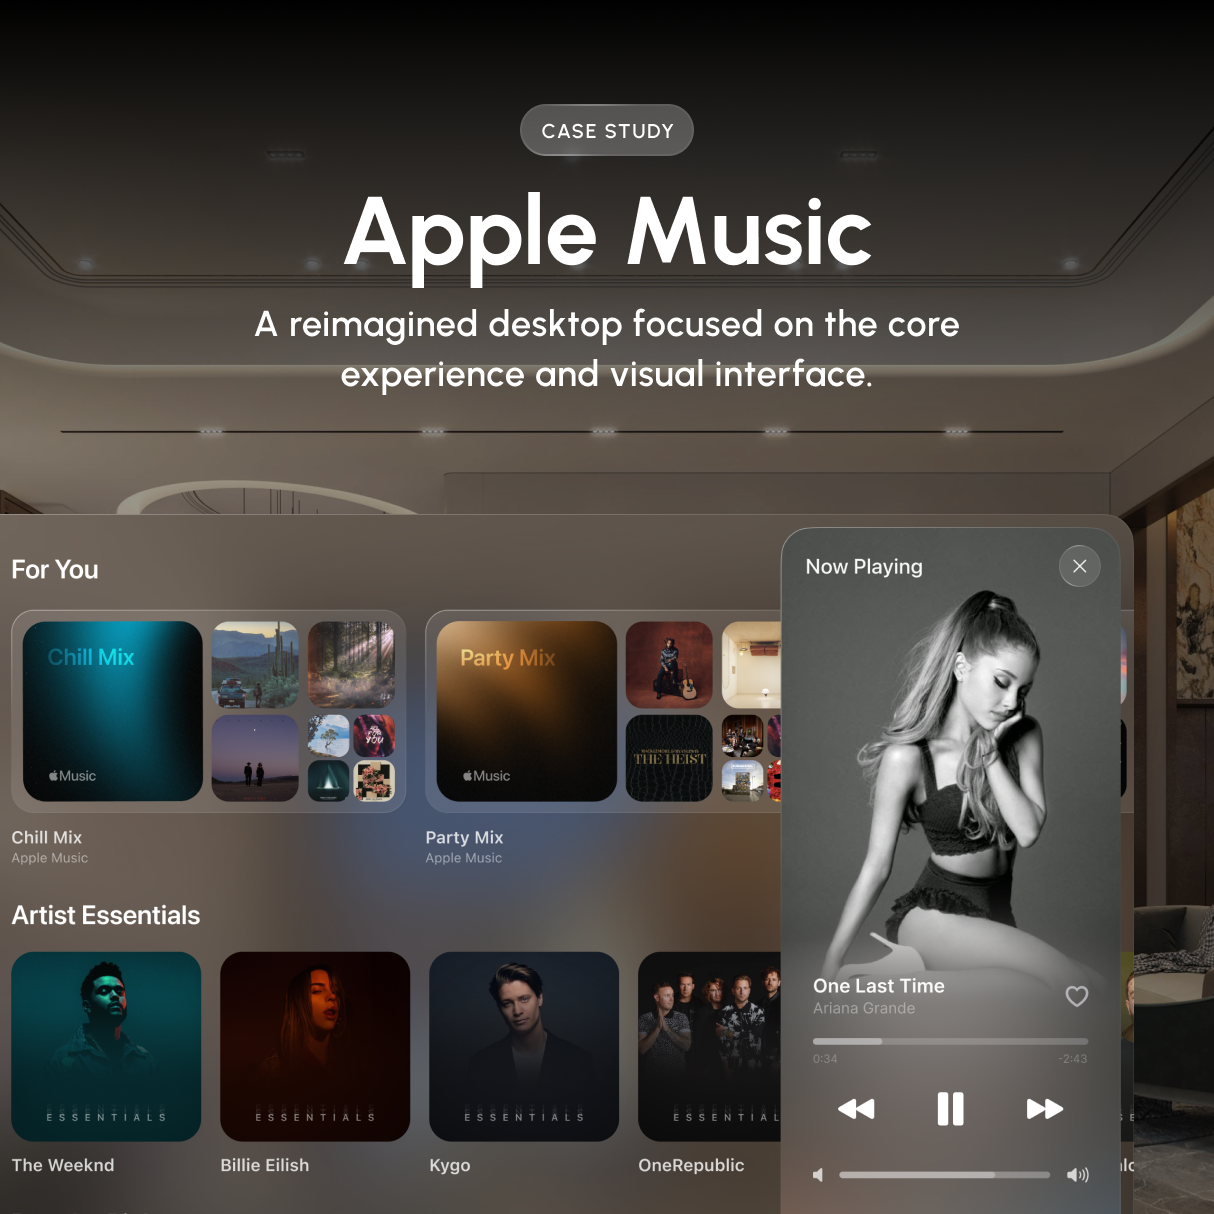
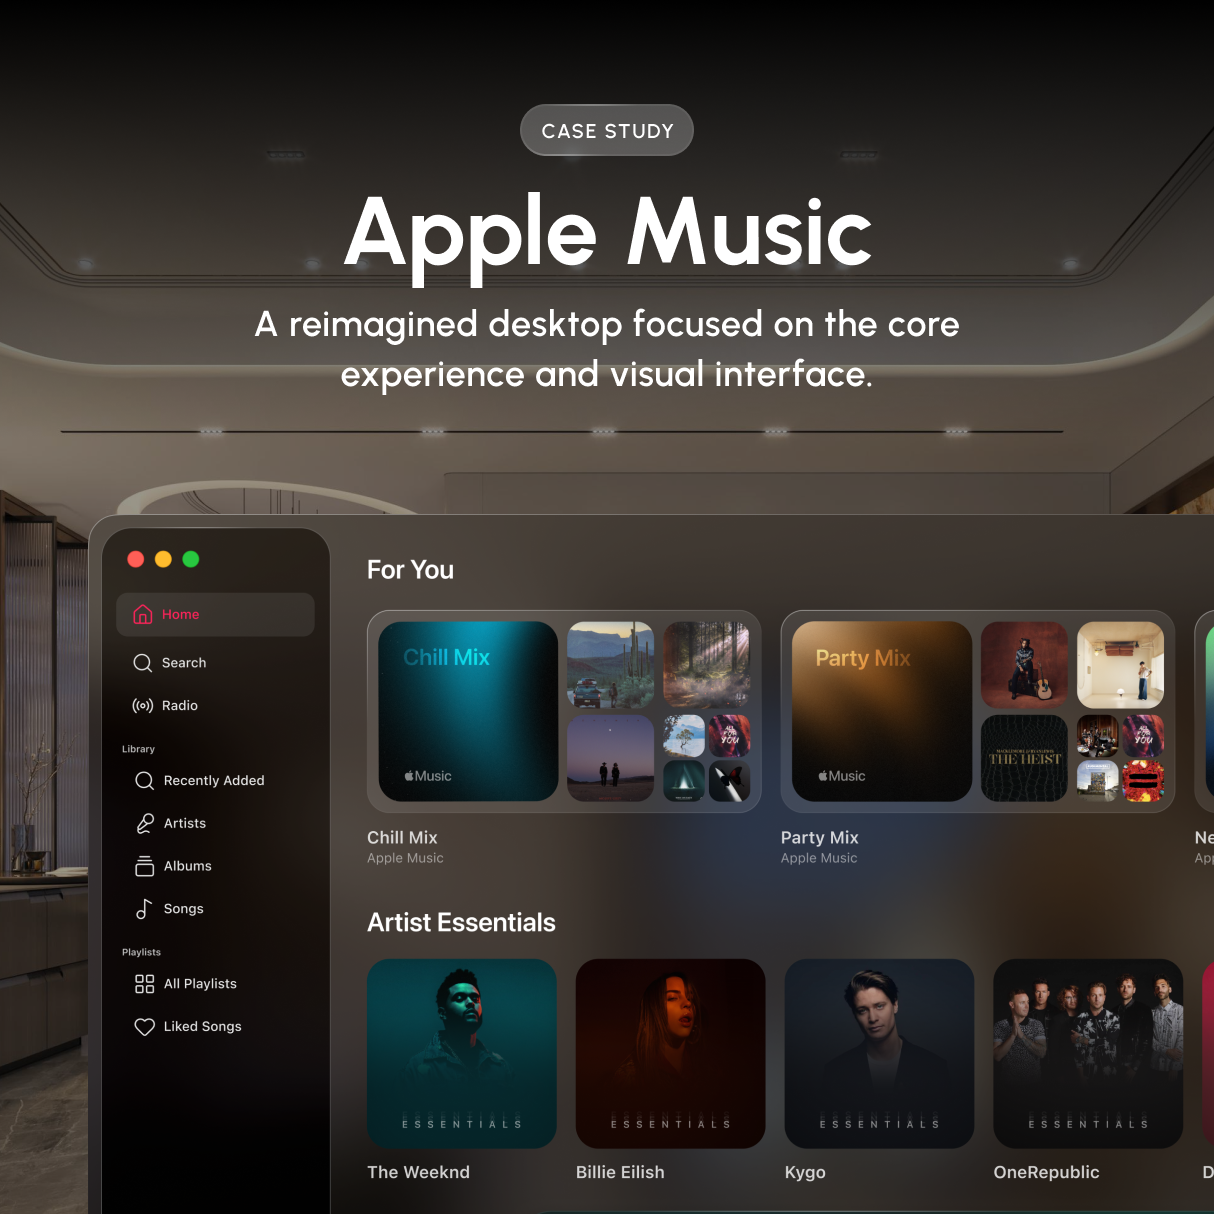
apl music update

diff --git a/Work/applemusic/home.html b/Work/applemusic/home.html
@@ -243,36 +243,8 @@
   </div>
 
 
+
   <div class="section" id="final-designs">
-    <div class="row">
-    <div class="col-lg-4 col-sm-12">
-      <h5>Design Language</h5>
-      <h2>iOS Continuity</h2>
-    </div>
-    <div class="col-lg-1"></div>
-    <div class="col-lg-7 col-sm-12">
-      <h4 class="">
-        Great design often lives in the details. To ensure a seamless transition between devices, I mirrored Apple's mobile design patterns: <br><br>
-
-        1. Typography: Utilizing San Francisco to maintain a cohesive visual hierarchy. <br><br>
-        
-        2. Adaptive Menus: A concise structure that prioritizes content while retaining mobile navigation logic. <br><br>
-        
-        3. Depth & Blur: Implementing the signature iOS "layered" glassmorphism for better visual hierarchy. <br><br>
-        
-        4. Dynamic Player: Adopting the iOS 14 color-sampling background blur to keep the visual identity intact.
-        </h4>
-    </div>
-  </div>
-    <div class="row mt-5">
-      <div class="col-lg-12 col-sm-12">
-        <img class="asset" src="Images/Frame 97.png" />
-      </div>
-    </div>
-  </div>
-
-
-  <div class="section">
     <div class="row">
     <div class="col-lg-4 col-sm-12">
       <h5>Revamped Player</h5>
@@ -281,7 +253,7 @@
     <div class="col-lg-1"></div>
     <div class="col-lg-7 col-sm-12">
       <h4 class="">
-        The goal was to replace a cluttered, edge-to-edge desktop layout with a focused "island" aesthetic that significantly reduces cognitive load. By utilizing a rounded capsule shape, it creates a clear visual hierarchy that groups playback, track info, and utility controls into logical clusters rather than spreading them across a horizontal bar that wastes space. Using the white space to make the interface feel less like a utility tool and more like a deliberate, premium object that scales effortlessly across different screen sizes.
+        The goal was to replace a cluttered, edge-to-edge desktop layout with a focused "island" aesthetic that significantly reduces cognitive load. By utilizing a rounded capsule shape, it creates a clear visual hierarchy that groups playback, track info, and utility controls into logical clusters rather than spreading them across a horizontal bar that wastes space. Using the white space to make the interface feel less like a utility tool and more like a deliberate, premium object that scales effortlessly across different screen sizes. Also, implemented the signature iOS-inspired layered glassmorphism effect with depth and blur to create a clearer visual hierarchy, while also adopting the iOS 14 dynamic color-sampling background blur for the music player to preserve and enhance the app’s visual identity.
         </h4>
     </div>
   </div>
@@ -344,18 +316,18 @@
         <div class="col-lg-1"></div>
         <div class="col-lg-7 col-sm-12">
           <h4 class="">
-            Currently, selecting an album interrupts your journey by forcing a page change. My solution introduces a Multitasking Sidebar. Clicking a playlist now opens a persistent side panel, allowing users to view content, manage queues, and browse multiple items simultaneously without losing their place.
+            Currently, selecting an album interrupts your journey by forcing a page change. So I introduced a Multitasking Sidebar. Clicking a playlist now opens a persistent side panel, allowing users to view content, manage queues, and browse multiple items simultaneously without losing their place. The Now Playing screen is also updated to reflect the mobile UI and new sidebar functionality.
             </h4>
         </div>
       </div>
      <div class="row mt-5 border-bottom">
           <div class="col-lg-12 col-sm-12">
-            <img class="asset" src="Images/Asset 10.png" />
+            <img class="asset" src="Images/Asset 11.png" />
           </div>
         </div>
         <div class="row mt-5">
           <div class="col-lg-12 col-sm-12">
-            <img class="asset" src="Images/Asset 11.png" />
+            <img class="asset" src="Images/Asset 10.png" />
           </div>
         </div>
       </div>
